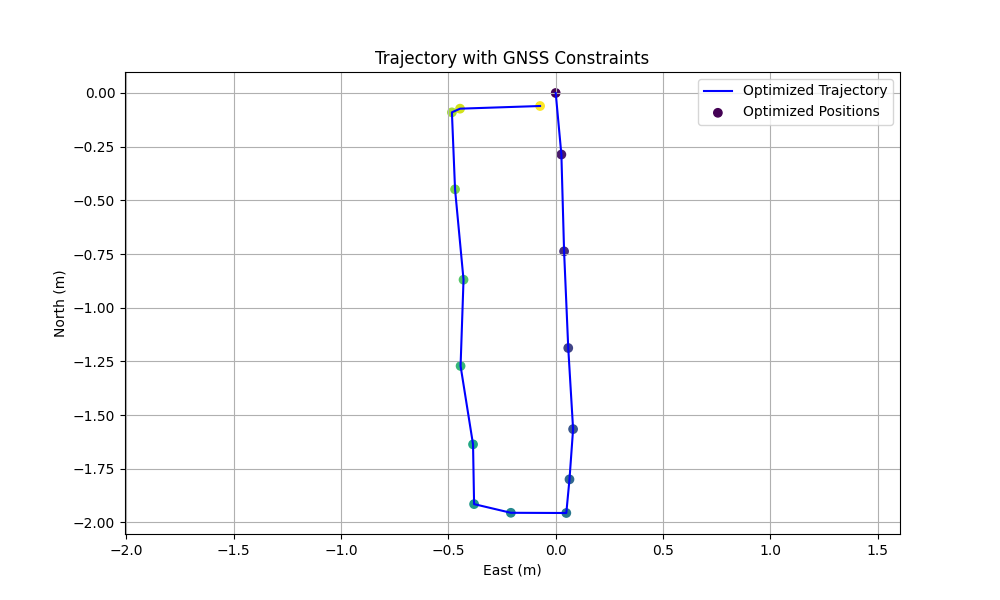
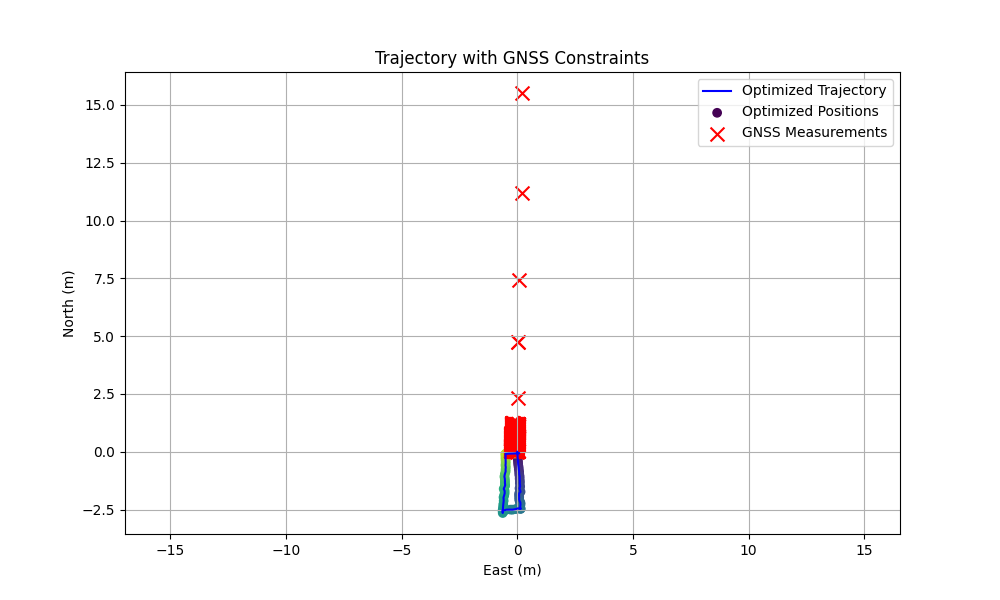
It can be used, but the effect has not been significantly improved

diff --git a/vggt_slam/graph.py b/vggt_slam/graph.py
@@ -34,21 +34,51 @@ class PoseGraph:
         self.initialized_nodes = set()
         self.num_loop_closures = 0 # Just used for debugging and analysis
     def scale_all_poses(self, scale_factor):
-        """Scale all pose positions by the given factor"""
+        """Scale all pose positions by the given factor while maintaining SL(4) constraints"""
         print(f"Scaling all poses by factor: {scale_factor}")
         
         # 创建一个新的Values对象来存储缩放后的位姿
         new_values = Values()
         
         for key in self.initialized_nodes:
-            H = self.values.atSL4(key).matrix()
-            # 只缩放位置部分，不缩放方向
-            H[0:3, 3] = H[0:3, 3] * scale_factor
-            new_values.insert(key, SL4(H))
+            H = self.values.atSL4(key).matrix().copy()
+            
+            # 正确提取3D位置（考虑齐次坐标）
+            position = H[0:3, 3] / H[3, 3]
+            
+            # 缩放位置
+            scaled_position = position * scale_factor
+            
+            # 创建新的变换矩阵 - 保持齐次坐标的最后一行不变
+            H_new = H.copy()
+            H_new[0:3, 3] = scaled_position * H[3, 3]
+            
+            # 确保行列式为正的关键步骤
+            det = np.linalg.det(H_new)
+            if det < 0:
+                # 通过翻转整个矩阵来使行列式为正
+                # 这不会改变3D几何，只会改变方向（镜像）
+                H_new = -H_new
+                det = np.linalg.det(H_new)
+                print(f"Adjusted sign of pose {key} to make determinant positive")
+            
+            # 归一化使行列式为1（SL(4)要求）
+            H_new = H_new / (np.abs(det) ** (1/4))
+            
+            # 验证行列式是否为正
+            final_det = np.linalg.det(H_new)
+            if final_det <= 0:
+                print(f"Error: Determinant still not positive for pose {key}: {final_det}")
+                continue
+                
+            new_values.insert(key, SL4(H_new))
         
         # 替换values并重新优化
         self.values = new_values
-        self.optimize()
+        self.ptimize()
+
+
+
 
     def visualize_gnss_constraints(self):
         """Plot GNSS measurements vs optimized positions"""
@@ -80,25 +110,37 @@ class PoseGraph:
         plt.grid(True)
         plt.savefig('gnss_visualization.png')
         plt.show()
-    def test_add_gnss(self, gnss_measurements):
-        """Add GNSS measurements as prior factors to the pose graph."""  
-        for frame_idx, enu in enumerate(gnss_measurements):
-            # 确保enu是numpy数组
-            if not isinstance(enu, np.ndarray):
-                enu = np.array(enu)
+    def test_add_gnss(self, gnss_measurements, scale_factor=1.0):
+        """
+        Add GNSS measurements as prior factors to the pose graph with scale handling.
+        
+        Args:
+            gnss_measurements: List of (lat, lon, alt) tuples
+            scale_factor: Scale factor to apply to GNSS measurements (1.0 = no scaling)
+        """
+        for frame_idx, (lat, lon, alt) in enumerate(gnss_measurements):
+            # 转换为ENU坐标
+            enu = self.gnss_processor.lla_to_enu(lat, lon, alt)
             
-            print(f"Frame {frame_idx} GNSS ENU: {enu}")
-            
-            # 创建SL4矩阵，只设置位置部分
+            # 应用尺度因子 - 关键修改：缩放GNSS测量值而非位姿
+            enu_scaled = enu / scale_factor
+            print(f"Frame {frame_idx} GNSS ENU (scaled): {enu_scaled} (scale={scale_factor:.4f})")
+            self.gnss_processor.add_enu2history(enu_scaled)
+            # 创建SL4矩阵
             H_gnss = np.eye(4)
-            H_gnss[0:3, 3] = enu  # 设置平移部分
+            H_gnss[0:3, 3] = enu_scaled  # 设置缩放后的平移部分
             
             # 创建噪声模型 - 只约束位置，不约束方向
-            # 对于SL4的15个自由度，我们只约束最后3个（位置）
             noise_vector = np.ones(15) * 1e6  # 高噪声表示不约束
-            # 根据您的GNSS设备精度调整这些值
+            # 根据GNSS设备精度调整这些值
             horizontal_noise = 1.0  # 水平方向噪声（米）
-            vertical_noise = 2.0    # 垂直方向噪声（米）
+            vertical_noise = 1.0    # 垂直方向噪声（米）
+            
+            # 重要：根据尺度因子调整噪声
+            # 如果尺度因子很大，GNSS噪声在视觉尺度下会变小
+            horizontal_noise /= scale_factor
+            vertical_noise /= scale_factor
+            
             noise_vector[-3] = horizontal_noise  # x (East)
             noise_vector[-2] = horizontal_noise  # y (North)
             noise_vector[-1] = vertical_noise    # z (Up)
@@ -113,6 +155,7 @@ class PoseGraph:
             else:
                 print(f"Warning: Frame {frame_idx} not initialized yet, cannot add GNSS prior")
 
+
     def add_gnss(self, gnss_measurements):
         """
         Add GNSS measurements as prior factors to the pose graph.
@@ -120,16 +163,10 @@ class PoseGraph:
         Args:
             gnss_measurements: List of (lat, lon, alt) tuples for each frame
         """
-        if self.initialized_gnss:
-            # Set the first GNSS measurement as the reference point
-            self.gnss_processor.setReference(gnss_measurements[0])
-            self.initialized_gnss = False
-            print(f"Set GNSS reference point: {gnss_measurements[0]}")
-
         for frame_idx, (lat, lon, alt) in enumerate(gnss_measurements):
             # Convert LLA to ENU (East, North, Up) coordinates
             enu = self.gnss_processor.lla_to_enu(lat, lon, alt)
-            print(f"Frame {frame_idx} GNSS ENU: {enu}")
+            # print(f"Frame {frame_idx} GNSS ENU: {enu}")
             H_gnss = np.eye(4)
             H_gnss[0:3, 3] = enu 
             horizontal_noise = 1.0 
@@ -144,7 +181,7 @@ class PoseGraph:
             key = X(frame_idx)
             if key in self.initialized_nodes:
                 self.graph.add(PriorFactorSL4(key, SL4(H_gnss), gnss_noise))
-                print(f"Added GNSS prior factor for frame {frame_idx}")
+                # print(f"Added GNSS prior factor for frame {frame_idx}")
             else:
                 print(f"Warning: Frame {frame_idx} not initialized yet, cannot add GNSS prior")
     def add_homography(self, key, global_h):
@@ -188,12 +225,7 @@ class PoseGraph:
         optimizer = gtsam.LevenbergMarquardtOptimizer(self.graph, self.values)
         result = optimizer.optimize()
         self.values = result  # Update values with optimized results
-    def test_optimize(self):
-        #params = gtsam.LevenbergMarquardtParams()
-        #params.setVerbosityLM("SUMMARY")  # 打印优化摘要
-        optimizer = gtsam.LevenbergMarquardtOptimizer(self.graph, self.values)
-        result = optimizer.optimize()
-        self.values = result
+
     def print_estimates(self):
         """Print the optimized poses."""
         for key in sorted(self.initialized_nodes):

diff --git a/vggt_slam/solver.py b/vggt_slam/solver.py
@@ -173,7 +173,12 @@ class Solver:
         
         print("Starting viser server...")
     def align_scale(self):
-        """计算并应用尺度对齐"""
+        """计算尺度因子但不直接缩放位姿 - 通过GNSS约束引导优化"""
+        if len(self.visual_positions) < 2:
+            print("Warning: Not enough points for scale alignment")
+            return False
+        
+        # 计算从起点到各点的距离比例
         scale_factors = []
         for i in range(1, len(self.visual_positions)):
             visual_delta = self.visual_positions[i] - self.visual_positions[0]
@@ -182,21 +187,20 @@ class Solver:
             visual_dist = np.linalg.norm(visual_delta)
             gnss_dist = np.linalg.norm(gnss_delta)
             
-            if visual_dist > 0.1:
+            if visual_dist > 0.01:  # 避免除以小值
                 scale_factors.append(gnss_dist / visual_dist)
         
         if scale_factors:
             self.scale_factor = np.median(scale_factors)
             print(f"Scale alignment: visual scale factor = {self.scale_factor:.4f}")
-            
-            # 缩放整个地图
-            for submap in self.map.get_submaps():
-                submap.scale_points(self.scale_factor)
-            
-            # 缩放图中的所有位姿
-            self.graph.scale_all_poses(self.scale_factor)
+            self.scale_aligned = True            
+            print("Scale alignment complete. GNSS constraints will guide the optimizer.")
+            return True
         else:
             print("Warning: Could not compute scale factor")
+            return False
+
+
     def set_point_cloud(self, points_in_world_frame, points_colors, name, point_size):
         if self.gradio_mode:
             self.viewer.add_point_cloud(points_in_world_frame, points_colors)
@@ -489,15 +493,15 @@ class Solver:
             
             H_w_submap = prior_submap.get_reference_homography() @ H_relative
 
-            # Visualize the point clouds
+            # # Visualize the point clouds
             # pcd1 = o3d.geometry.PointCloud()
             # pcd1.points = o3d.utility.Vector3dVector(self.prior_pcd)
             # pcd1 = color_point_cloud_by_confidence(pcd1, self.prior_conf)
             # pcd2 = o3d.geometry.PointCloud()
-            # current_pts = world_points[0,...].reshape(-1, 3)
-            # points = apply_homography(H_relative, current_pts)
-            # pcd2.points = o3d.utility.Vector3dVector(points)
-            # # pcd2 = color_point_cloud_by_confidence(pcd2, conf_flat, cmap='jet')
+            # # current_pts = world_points[0,...].reshape(-1, 3)
+            # # points = apply_homography(H_relative, current_pts)
+            # # pcd2.points = o3d.utility.Vector3dVector(points)
+            # # # pcd2 = color_point_cloud_by_confidence(pcd2, conf_flat, cmap='jet')
             # o3d.visualization.draw_geometries([pcd1, pcd2])
 
             non_lc_frame = self.current_working_submap.get_last_non_loop_frame_index()
@@ -511,7 +515,7 @@ class Solver:
             # Add between factor.
             self.graph.add_between_factor(prior_pcd_num, new_pcd_num, H_relative, self.graph.relative_noise)
 
-            print("added between factor", prior_pcd_num, new_pcd_num, H_relative)
+            # print("added between factor", prior_pcd_num, new_pcd_num, H_relative)
 
         # Create and add submap.
         self.current_working_submap.set_reference_homography(H_w_submap)
@@ -547,8 +551,8 @@ class Solver:
                     # 计算当前段的尺度因子
                     visual_dist = np.linalg.norm(visual_delta)
                     gnss_dist = np.linalg.norm(gnss_delta)
-                    
-                    if visual_dist > 0.1:  # 避免除以小值
+                    print(f"Visual distance: {visual_dist:.4f}, GNSS distance: {gnss_dist:.4f}")
+                    if visual_dist > 0.01:
                         scale_estimate = gnss_dist / visual_dist
                         print(f"Scale estimate from frame {len(self.visual_positions)-1} to {len(self.visual_positions)}: {scale_estimate:.4f}")
                         
@@ -606,21 +610,14 @@ class Solver:
             # plt.show()
         self.map.add_submap(self.current_working_submap)
         # 如果已经对齐尺度，应用到GNSS约束
-        if self.scale_aligned:
-            if gnss_measurements is not None:
-                # 创建缩放后的GNSS测量
-                scaled_gnss = []
-                for i, (lat, lon, alt) in enumerate(gnss_measurements):
-                    enu = self.gnss_processor.lla_to_enu(lat, lon, alt)
-                    # 应用尺度对齐（基于第一个GNSS点作为原点）
-                    aligned_enu = self.scale_factor * (np.array(enu) - np.array(self.gnss_positions[0])) + self.visual_positions[0]
-                    scaled_gnss.append(aligned_enu)
-                # 添加到图中
-                self.graph.tets_add_gnss(scaled_gnss)
-        else:
-            # 仍然添加原始GNSS，但可能尺度不匹配
-            if gnss_measurements is not None:
-                self.graph.test_add_gnss(gnss_measurements)
+        if gnss_measurements is not None and len(gnss_measurements) > 0:
+                if self.scale_aligned:
+                    # 创建缩放后的GNSS测量 - 但不是缩放位姿，而是调整GNSS噪声
+                    print(f"Applying scale factor {self.scale_factor:.4f} to GNSS constraints")
+                    self.graph.test_add_gnss(gnss_measurements, scale_factor=self.scale_factor)
+                else:
+                    # 仍然添加原始GNSS，但可能尺度不匹配
+                    self.graph.test_add_gnss(gnss_measurements)
         # Add GNSS measurements if available
         # if gnss_measurements is not None and len(gnss_measurements) > 0:
         #     print(f"Adding {len(gnss_measurements)} GNSS measurements to graph")

diff --git a/main_test.py b/main_test.py
@@ -32,7 +32,7 @@ parser.add_argument("--use_sim3", action="store_true", help="Use Sim3 instead of
 parser.add_argument("--plot_focal_lengths", action="store_true", help="Plot focal lengths for the submaps")
 parser.add_argument("--submap_size", type=int, default=3, help="Number of new frames per submap, does not include overlapping frames or loop closure frames")
 parser.add_argument("--overlapping_window_size", type=int, default=1, help="ONLY DEFAULT OF 1 SUPPORTED RIGHT NOW. Number of overlapping frames, which are used in SL(4) estimation")
-parser.add_argument("--downsample_factor", type=int, default=5, help="Factor to reduce image size by 1/N")
+parser.add_argument("--downsample_factor", type=int, default=1, help="Factor to reduce image size by 1/N")
 parser.add_argument("--max_loops", type=int, default=1, help="Maximum number of loop closures per submap")
 parser.add_argument("--min_disparity", type=float, default=5, help="Minimum disparity to generate a new keyframe")
 parser.add_argument("--use_point_map", action="store_true", help="Use point map instead of depth-based points")
@@ -109,7 +109,7 @@ def main():
     solver.graph.gnss_processor.setReference(gps_info_1)
     for i, image_name in enumerate(tqdm(image_names)):
         gps_info_2 = vp_.read_exif_from_image(image_name)
-        print("gps_info_2", gps_info_2)
+        # print("gps_info_2", gps_info_2)
         if use_optical_flow_downsample:
             # print(image_name)
             img = cv2.imread(image_name)
@@ -128,13 +128,13 @@ def main():
 
         # Run submap processing if enough images are collected or if it's the last group of images.
         if len(image_names_subset) == args.submap_size + args.overlapping_window_size or image_name == image_names[-1]:
-            print("real_t_subset",real_t_subset)
+            # print("real_t_subset",real_t_subset)
             predictions = solver.run_predictions(image_names_subset, model, args.max_loops)
 
             data.append(predictions["intrinsic"][:,0,0])
-            solver.add_points(predictions)
+            solver.test_add_points(predictions, real_t_subset)
 
-            solver.graph.test_optimize()
+            solver.graph.optimize()
             solver.map.update_submap_homographies(solver.graph)
 
             loop_closure_detected = len(predictions["detected_loops"]) > 0

diff --git a/vggt_slam/submap.py b/vggt_slam/submap.py
@@ -182,21 +182,21 @@ class Submap:
             if hasattr(self, 'conf'):
                 self.conf = self.conf * scale_factor  # 如果conf与距离相关
     
-    def test_get_points_in_world_frame(self, scale_factor=1.0):
-        """
-        获取世界坐标系中的点，考虑尺度缩放
+    # def test_get_points_in_world_frame(self, scale_factor=1.0):
+    #     """
+    #     获取世界坐标系中的点，考虑尺度缩放
         
-        Args:
-            scale_factor: 缩放因子，默认为1.0（无缩放）
-        """
-        points = self.filter_data_by_confidence(self.pointclouds)
+    #     Args:
+    #         scale_factor: 缩放因子，默认为1.0（无缩放）
+    #     """
+    #     points = self.filter_data_by_confidence(self.pointclouds)
         
-        # 应用尺度缩放
-        points = points * scale_factor
+    #     # 应用尺度缩放
+    #     points = points * scale_factor
         
-        points_flat = points.reshape(-1, 3)
-        points_homogeneous = np.hstack([points_flat, np.ones((points_flat.shape[0], 1))])
-        points_transformed = (self.H_world_map @ points_homogeneous.T).T
-        return points_transformed[:, :3] / points_transformed[:, 3:]
+    #     points_flat = points.reshape(-1, 3)
+    #     points_homogeneous = np.hstack([points_flat, np.ones((points_flat.shape[0], 1))])
+    #     points_transformed = (self.H_world_map @ points_homogeneous.T).T
+    #     return points_transformed[:, :3] / points_transformed[:, 3:]
 
 

diff --git a/gnss_processer.py b/gnss_processer.py
@@ -29,9 +29,10 @@ class GNSSprocesser:
             north - self.ref_north,
             alt - self.ref_alt
         ])
-        self.enu_history.append(enu)
+        # self.enu_history.append(enu)
         return enu
-    
+    def add_enu2history(self, enu):
+        self.enu_history.append(enu)
 if __name__ == "__main__":
     gnss = GNSSprocesser()
     gnss.setReference([30.411221, 104.077182, 707])
